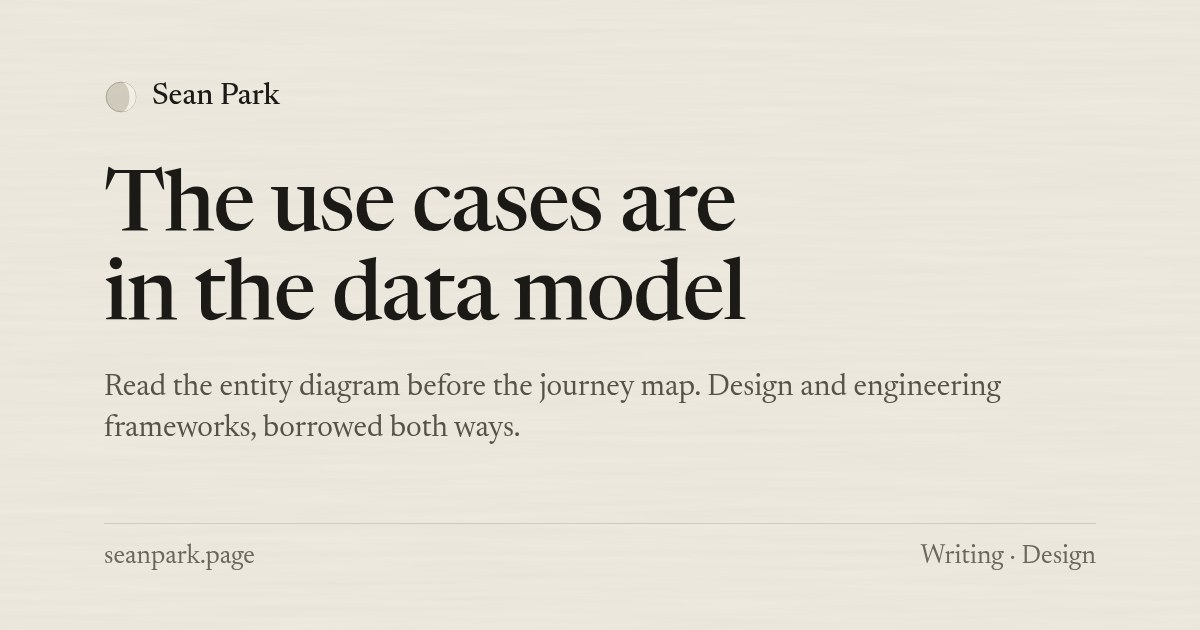
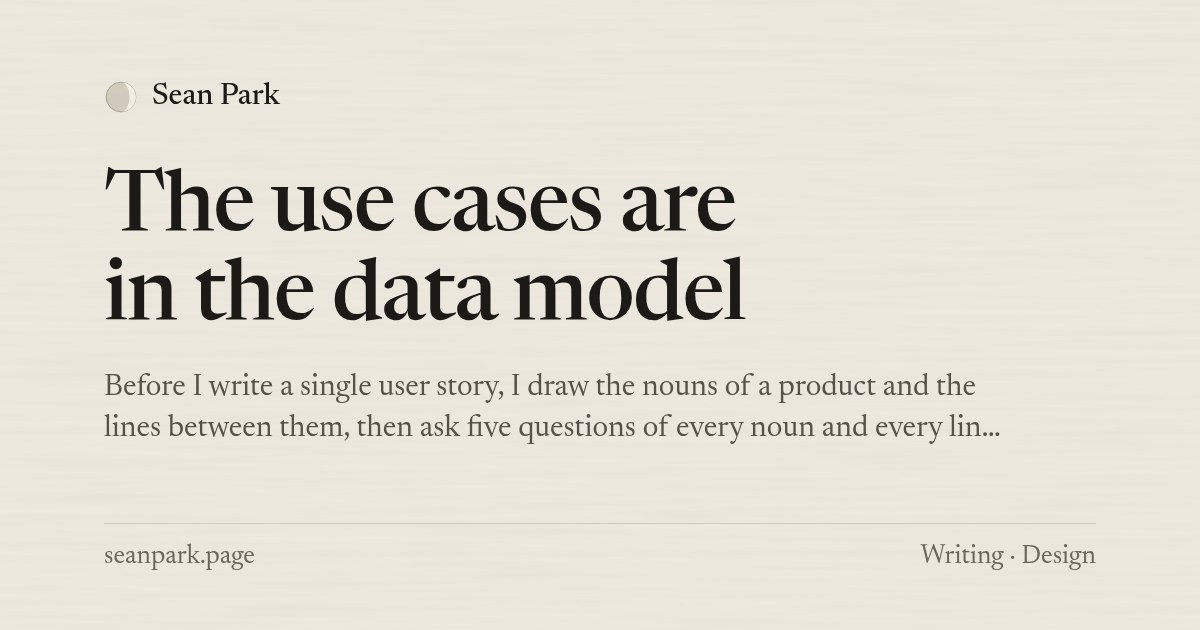
Writing: data-model, EN + KO (Spotify modelled through CRRUD, the app-builder wait, OOUX and the CRUD matrix as neighbours); share cards

Changed region(s): [[0.0925, 0.6635, 0.8325, 0.6937], [0.0925, 0.6032, 0.8325, 0.6333], [0.4625, 0.4524, 0.4933, 0.4825]]

diff --git a/src/styles/global.css b/src/styles/global.css
@@ -355,6 +355,14 @@ main{margin-left:calc(var(--gut) + var(--rail));padding-right:48px;max-width:100
 .prose .sws{display:flex;flex-wrap:wrap;gap:10px 22px;font-size:15px;color:var(--soft);font-variant-numeric:tabular-nums lining-nums}
 .prose .sw{display:inline-flex;align-items:center;gap:8px}
 .prose .sw::before{content:"";width:20px;height:20px;border-radius:3px;background:var(--c);box-shadow:inset 0 0 0 1px var(--rule)}
+/* data-model: the CRRUD grid; row heads are entities and relationships, a dot is an empty cell, .gap is the one to build */
+.prose figure.crrud{width:100%;overflow-x:auto}
+.prose .crrud table{font-size:15px;min-width:640px}
+.prose .crrud tbody th{text-align:left;font-weight:400;color:var(--fg);padding:9px 16px 9px 0;border-bottom:1px solid var(--rule);white-space:nowrap}
+.prose .crrud tr.grp th{color:var(--faint);font-size:13px;letter-spacing:.04em;padding-top:18px}
+.prose .crrud td{color:var(--soft)}
+.prose .crrud td b{font-weight:400;color:var(--fg)}
+.prose .crrud td.gap{color:var(--fg);outline:1px dashed var(--fg);outline-offset:-4px;text-align:center}
 /* redesign-skill: a 900px-tall screen drawn at 1:5, the header band to scale, the rest is the page's main module */
 .prose figure.pxs{width:100%}
 .prose .pxrow{display:flex;gap:28px;flex-wrap:wrap}

diff --git a/src/content/writing-ko/data-model.md b/src/content/writing-ko/data-model.md
@@ -1,18 +1,119 @@
 ---
 title: 유스케이스는 데이터 모델 안에 있다
-dek: 저니맵보다 엔티티 다이어그램을 먼저 읽는다. 디자인과 엔지니어링이 서로의 프레임워크를 빌려 쓰는 법.
+dek: 사용자 스토리를 쓰기 전에 제품의 명사와 그 사이의 선부터 그린다. 그리고 명사 하나, 선 하나마다 다섯 가지를 묻는다. 사람들이 아끼는 기능은 대개 선 위에서 나온다.
 lens: 디자인
-keywords: ["엔지니어링 사고로 디자인하기", "ERD에서 유스케이스 찾기", "데이터 모델에서 시작하는 프로덕트 디자인"]
+keywords: ["엔지니어링 사고로 디자인하기", "ERD에서 유스케이스 찾기", "데이터 모델에서 시작하는 프로덕트 디자인", "프로덕트 디자인을 위한 CRUD", "객체 지향 UX"]
+tldr: "제품의 엔티티와 그 사이의 관계를 그리고, 하나하나에 생성·목록 조회·상세 조회·수정·삭제를 물어본다. 모든 기능이 어느 칸엔가 들어간다. 사랑받는 기능은 대부분 관계 쪽에 있고, 다음 기능은 빈칸에 있다."
 ---
 
-## 계기
+12월 초가 되면 수백만 명이 데이터베이스 쿼리 결과를 캡처해서 올린다. 스포티파이 랩드(Wrapped)는 1년 치 재생 기록을 곡과 아티스트별로 묶어 횟수순으로 정렬한 것이다. 엔티티 하나를 한 번 조회한 결과인데, 스포티파이가 1년 중 하는 마케팅 가운데 가장 잘 먹힌다.
 
-작성 예정: 이걸 처음 알아챈 순간.
+내 유스케이스도 대부분 이렇게 나온다. 사용자 스토리를 쓰거나 저니맵을 그리기 전에 제품의 명사들과 그 사이를 잇는 선부터 그린다. 그다음 상자 하나, 선 하나씩 짚어 가며 이걸로 사람이 뭘 할 수 있는지 묻는다.
 
-## 주장
+## 테이블이 아니라 엔티티
 
-작성 예정: 하고 싶은 말과 그 근거.
+이 그림은 DB 다이어그램이 아니다. 컬럼도 타입도 외래 키도 없다. 엔티티는 제품이 다루는 것이고 이름은 사람들이 부르는 말 그대로 쓴다. 곡, 플레이리스트, 사람. 관계는 두 엔티티 사이의 선이고 선 위에는 그게 무슨 관계인지 적는다. 좋아한다, 팔로한다, 편집한다.
 
-## 다시 한다면
+엔지니어 눈에는 엔지니어링을 덜어 낸 ER 다이어그램으로 보일 거다. 일부러 뺐다. 컬럼과 키가 붙는 순간 그림은 저장 방식을 설명하게 되는데, 나는 제품을 설명하는 그림이 필요하다.
 
-작성 예정: 지금 다시 한다면 바꿀 것.
+## 다섯 가지 질문
+
+엔티티와 관계마다 CRRUD를 묻는다.
+
+- 생성(Create): 하나를 만들 수 있나?
+- 목록 조회(Read list): 여러 개를 볼 수 있나?
+- 상세 조회(Read details): 하나를 자세히 볼 수 있나?
+- 수정(Update): 바꿀 수 있나?
+- 삭제(Delete): 없앨 수 있나?
+
+CRRUD는 CRUD에서 조회를 둘로 쪼갠 것이다. 이렇게 나눈 건 내 생각인데, 화면에서는 이 둘이 전혀 다른 물건이라서다. (비슷한 걸 CRUDL이라고 부르는 사람도 있다.) 목록은 「어떤 것들이 있지?」에 답하고 상세 페이지는 「이건 어떤 거지?」에 답한다. 화면이 다르고 기능도 다른 경우가 많다. 엔지니어들은 이미 이렇게 나눠 쓴다. Rails 라우트로 치면 `index`와 `show`다. 디자인 쪽에서는 이걸 잘 나누지 않는다.
+
+이 표의 칸 하나하나가 유스케이스 후보다. 대부분은 시시하거나 말이 안 되고, 몇 개는 이미 있다. 그리고 몇 개는 아직 아무도 만들지 않은 것이다.
+
+## 스포티파이를 모델링해 보면
+
+다들 아는 앱으로 해 보자. 스포티파이의 실제 스키마는 공개돼 있지 않으니, 이건 내가 그린 제품 모델이지 그쪽 데이터베이스가 아니다.
+
+렌즈 두 개로 시작한다. 비즈니스 렌즈는 무엇이 돈이 되는지 본다. 프리미엄 요금제(개인, 듀오, 패밀리, 학생), 무료 요금제의 광고, 그리고 시장 반대편의 아티스트와 레이블. 사용자 렌즈는 사람들이 뭘 하러 오는지 본다. 듣고, 새 음악을 찾고, 남과 나눈다.
+
+다음은 명사다. 사용자, 아티스트, 앨범, 곡, 플레이리스트, 기기, 요금제. 그리고 놓치기 쉬운 하나가 더 있다. **재생(Play)**이다. 재생은 한 사람과 한 곡, 그리고 한 순간이다. 누가 재생 버튼을 누를 때마다 생기고, 결국 이 모델에서 가장 값진 엔티티가 된다.
+
+다음은 선이다. 사용자가 곡을 *좋아한다*. 사용자가 아티스트를, 다른 사용자를 *팔로한다*. 남의 플레이리스트를 *같이 편집한다*. 기기가 곡을 *내려받아 두고 있다*. 사용자가 같이 듣기 세션에 *들어가 있다*. 요금제 하나가 여러 사용자를 *묶는다*.
+
+그리고 표를 채운다.
+
+<figure class="crrud">
+<table>
+<thead><tr><th></th><th>생성</th><th>목록 조회</th><th>상세 조회</th><th>수정</th><th>삭제</th></tr></thead>
+<tbody>
+<tr class="grp"><th colspan="6">엔티티</th></tr>
+<tr><th>플레이리스트</th><td>새 플레이리스트</td><td>내 라이브러리</td><td>플레이리스트 페이지</td><td>이름 변경, 순서 변경</td><td>삭제</td></tr>
+<tr><th>곡</th><td>·</td><td>검색, 앨범 페이지</td><td>가사, 크레딧</td><td>·</td><td>·</td></tr>
+<tr><th>재생</th><td>재생 버튼</td><td>최근 재생, daylist, <b>랩드</b></td><td>·</td><td>·</td><td>·</td></tr>
+<tr class="grp"><th colspan="6">관계</th></tr>
+<tr><th>사용자가 곡을 좋아함</th><td>하트</td><td>좋아요 표시한 곡</td><td class="gap">?</td><td>·</td><td>좋아요 취소</td></tr>
+<tr><th>사용자가 아티스트를 팔로</th><td>팔로</td><td>팔로 목록, 새 발매</td><td>·</td><td>·</td><td>언팔로</td></tr>
+<tr><th>사용자가 사용자를 팔로</th><td>팔로</td><td>친구 활동</td><td>·</td><td>·</td><td>언팔로</td></tr>
+<tr><th>사용자가 플레이리스트를 편집</th><td>초대</td><td>참여자</td><td>·</td><td>·</td><td>내보내기</td></tr>
+<tr><th>기기에 곡이 있음</th><td>다운로드</td><td>다운로드한 곡</td><td>·</td><td>·</td><td>삭제</td></tr>
+<tr><th>사용자가 세션에 있음</th><td>Jam 시작</td><td>참여 중인 사람</td><td>·</td><td>·</td><td>나가기</td></tr>
+<tr><th>요금제가 사용자를 묶음</th><td>멤버 추가</td><td>멤버, Family Mix</td><td>·</td><td>·</td><td>내보내기</td></tr>
+<tr><th>사용자 + 사용자, 재생으로</th><td>Blend 만들기</td><td>Blend 플레이리스트</td><td>·</td><td>·</td><td>나가기</td></tr>
+</tbody>
+</table>
+<figcaption>내가 그린 스포티파이 모델에 CRRUD를 돌린 결과. 점은 비어 있는 칸이고, 물음표는 내가 다음으로 만들 칸이다.</figcaption>
+</figure>
+
+눈에 띄는 게 세 가지 있다.
+
+첫째, 이름을 댈 수 있는 기능은 거의 다 어느 칸엔가 들어간다. 검색은 곡의 목록 조회다. 가사는 상세 조회다. 다운로드는 기기와 곡 사이의 관계이고, Jam은 사람과 세션 사이의 관계다. 랩드는 재생 기록을 연도로 자른 목록이다. daylist는 같은 기록을 하루 중 시간대로 자르고 비슷한 곡을 채워 넣는다. Blend는 몇 사람의 취향을 섞어 플레이리스트 하나를 만든다.
+
+둘째, 사람들이 입에 올리는 기능이 어디 있는지 보자. 좋아요 표시한 곡, 친구 활동, 공동 플레이리스트, Jam, Blend, Family Mix. 전부 관계 줄에 있다. 랩드와 daylist는 재생 줄에 있지만 재생도 결국 관계다. 한 사람과 한 곡이 어느 순간에 만난 기록이니까. 엔티티 줄에 있는 건 대개 기본기다. 플레이리스트를 만들고, 열고, 지운다.
+
+**사람들이 아끼는 기능은 관계에 붙은 동사다.**
+
+내가 상자만 그리지 않고 선을 긋는 가장 큰 이유가 이거다. 객체 목록에서는 화면이 나온다. 선에서는 그 화면을 열 이유가 나온다.
+
+셋째, 관계 줄에서는 수정 칸이 거의 비어 있다. 관계는 생기고 끝나지만 좀처럼 바뀌지 않는다. 곡을 좋아하거나, 안 좋아하거나 둘 중 하나다. 관계 줄에 수정 칸이 차 있으면 대개 그 선이 처음부터 자기 페이지를 가진 엔티티였어야 했다는 신호다.
+
+## 빈칸
+
+이 표가 제일 쓸모 있는 곳은 비어 있는 데다. 점 하나하나가 질문이다. 말이 안 돼서 빈 걸까, 아무도 안 만들어서 빈 걸까?
+
+*사용자가 곡을 좋아함*의 상세 조회를 보자. 스포티파이는 내가 이 곡을 처음 들은 날, 지금까지 몇 번 들었는지, 어느 해에 제일 많이 들었는지 다 안다. 랩드와 주간 청취 통계가 보여 주는 건 순위뿐이다. 올해나 이번 주에 많이 들은 곡들. 아무 곡이나 아무 날에 그걸 보여 주는 화면은 아직 못 찾았다. 이 곡이 언제 내 삶에 들어왔고 그때 무슨 일을 하고 있었는지. 이거면 기능 하나다. 이 기능은 누구를 인터뷰해서가 아니라 선 위의 빈 상자 하나를 보다가 나왔다.
+
+인터뷰는 그다음이다. 표는 후보를 내놓고, 무엇을 만들 가치가 있는지는 사용자 렌즈가 정한다. 그게 이 방법의 나머지 절반이다.
+
+## 양쪽으로
+
+데이터 모델로 유스케이스를 찾는 건 엔지니어링 습관을 디자인에 가져온 것이다. 그런데 이 방법은 반대 방향으로도 돌 때 더 잘 먹힌다. 사용자의 진짜 문제가 데이터를 바꾸는 방향이다.
+
+지금 만들고 있는 기능에서 예를 하나 들겠다. AI 앱 빌더다. 아직 나오지 않은 기능이라 세부는 바꿨다.
+
+만들고 싶은 앱을 설명하면 에이전트가 코드를 쓴다. 미리보기가 뜨기까지 1~2분을 기다려야 한다. 첫 버전은 그 시간을 스피너와 흘러가는 로그로 채웠다. `write_file`, `install`, `run`, `write_file`. 정확하긴 했지만 코드를 안 쓰는 사람에게는 아무 의미가 없었다. 사람들은 답답해했고, 몇몇은 새로 고침을 눌렀다가 작업을 통째로 날렸다.
+
+그래서 데이터에서 출발했다. 엔지니어링에서 디자인으로 가는 방향이다. 실제 실행 기록에서 툴 호출을 뽑아 엔티티로 나눴다. 페이지, 파일, 패키지, 명령, 오류, 그리고 미리보기 자체. 다음엔 관계를 그렸다. 페이지는 파일로 이뤄진다. 파일은 패키지가 필요하다. 명령이 파일을 빌드하고, 오류는 어떤 파일에 속한다. 여기에 CRRUD를 대 보니 로그가 눈으로 따라갈 수 있는 화면이 됐다. 페이지가 하나씩 나타나고 그 아래로 파일이 채워진다. 오류는 흘러가는 빨간 줄이 아니라 그 오류가 깨뜨린 페이지 위에 뜬다.
+
+기다리는 동안 무슨 일이 일어나는지는 읽히게 됐다. 하지만 기다림이 짧아지거나 덜 답답해지지는 않았다. 그래서 반대로 갔다. 디자인에서 데이터로. 사람들이 그 1분 동안 실제로 기다리는 게 뭔지 물었다. 파일이 아니었다. 「내가 말한 걸 만들고 있나?」와 「거의 다 됐나?」였다. 툴 호출로는 둘 다 답할 수 없었다. 그런 정보를 아예 담고 있지 않았으니까. 그래서 정보를 더했다. 이제 툴 호출마다 그게 요청의 어느 부분을 위한 건지(「가입 페이지」, 「예약 폼」) 적혀 있고, 에이전트는 시작할 때 계획부터 보낸다.
+
+이제 대기 화면에는 사용자가 한 요청이 체크리스트로 뜨고, 그 사람이 쓴 말 그대로 하나씩 체크된다. 궁금한 사람은 그 아래에서 파일까지 볼 수 있다.
+
+## 비슷하게 생각한 사람들
+
+이 글을 쓰다가 [객체 지향 UX(OOUX)](https://alistapart.com/article/ooux-a-foundation-for-interaction-design/)를 알게 됐다. 소피아 프레이터(Sophia Prater)가 2015년에 내놓은 방법이고, ORCA라는 순서를 따른다. 객체(Objects), 관계(Relationships), 행동 유도(Calls-to-action), 속성(Attributes). 내 방법과 아주 가깝고, 더 일찍 알았으면 좋았겠다 싶다. 다른 점도 있다. OOUX는 행동을 객체에 붙이고, 관계는 주로 무엇이 무엇 안에 보일지 정하는 데 쓴다. 나는 동사를 관계 자체에 붙인다. 위의 표에서 흥미로운 기능이 나온 곳이 거기였으니까. 또 OOUX는 리서치로 찾은 사용자 머릿속의 명사에서 출발한다. 나는 시스템이 기록하는 것에서 출발한다. 툴 호출 로그처럼 아무도 들여다보지 않는 데이터까지 포함해서. 사용자와 맞춰 보는 건 그다음이다.
+
+더 오래된 것으로는 정보 공학(information engineering)의 [CRUD 매트릭스](https://condor.depaul.edu/jbernste/is315_CRUDmatrix.htm)가 있다. 엔티티와 업무 프로세스를 가로세로로 놓은 표인데, 모든 엔티티가 어딘가에서 생성·조회·수정·삭제되는지 확인하는 점검표로 쓴다. 나는 같은 표를 일부러 빈틈을 찾는 데 쓴다.
+
+## 안 통하는 데
+
+품질은 못 다룬다. 속도, 음질, 화면을 만질 때의 느낌, 지하철 안에서도 잘 되는지 같은 건 어느 칸에도 없다. 그런 건 다른 도구가 필요하다.
+
+어디에도 저장되지 않는 관계도 있다. 디스커버 위클리, 라디오, DJ는 「이 곡은 저 곡과 비슷하다」는 관계로 돌아가는데, 이 선은 스포티파이가 수많은 재생 기록과 플레이리스트에서 추론한 것이다. 저장된 것만 그렸다면 스포티파이가 제일 잘한다는 추천을 놓쳤을 거다. 그래서 추론한 선도 점선으로 그린다.
+
+그리고 표에는 안목이 없다. 후보는 쉰 개를 내놓지만 그중 중요한 세 개가 뭔지는 말해 주지 않는다. 한 번 보자마자 누군가 갖고 싶어 하는 칸이어야 만들 가치가 있다. 표가 하는 일은 모든 칸을 한 번씩은 보게 만드는 것까지다.
+
+남기고 싶은 규칙은 이거다. 누가 요청한 기능이 어느 칸에도 안 들어가면 억지로 끼워 넣지 말 것. 아직 안 그린 엔티티를 찾을 것. 요청의 각 부분도 우리가 그려 넣기 전까지는 그런 엔티티였다.
+
+지금 만드는 제품의 빈칸은 어디인가?
+
+*에이전트와 인터뷰하며 초안을 쓰고, 내가 고쳤다.*

diff --git a/src/content/writing/data-model.md b/src/content/writing/data-model.md
@@ -1,20 +1,122 @@
 ---
 title: The use cases are in the data model
-dek: Read the entity diagram before the journey map. Design and engineering frameworks, borrowed both ways.
+dek: Before I write a single user story, I draw the nouns of a product and the lines between them, then ask five questions of every noun and every line. Most of the features people love turn up on the lines.
 lens: Design
 order: 6
-keywords: ["designing with an engineering mindset", "use cases from an entity relationship diagram", "product design from the data model"]
+stage: essay
+updated: 2026-11-22
+keywords: ["designing with an engineering mindset", "use cases from an entity relationship diagram", "product design from the data model", "CRUD for product design", "object-oriented UX"]
+tldr: "Draw the product's entities and the relationships between them, then ask Create, Read list, Read details, Update and Delete of each one. Every feature lands in a cell. The loved ones are mostly on relationships, and the empty cells are where the next ones are."
 ---
 
-## The setup
+In early December, millions of people will post a screenshot of a database query. Spotify Wrapped is a year of your plays, grouped by song and artist and sorted by count. It's one read on one entity, and it's the best marketing Spotify does all year.
 
-Placeholder: the situation that made you notice this.
+I find most of my use cases that way. Before I write a user story or draw a journey map, I draw the product's nouns and the lines between them. Then I go through the drawing one box and one line at a time and ask what someone could do with it.
 
-## The argument
+## Entities, not tables
 
-Placeholder: the claim, and why it holds.
+The drawing isn't a database diagram. There are no columns, types or foreign keys. An entity is a thing the product is about, in the words people use for it: a song, a playlist, a person. A relationship is a line between two things, and I write on the line what it is: likes, follows, edits.
 
-## What I'd do differently
+Engineers will recognize an ER diagram with the engineering taken out. That's the point. Once it's columns and keys it describes storage, and I want it to describe the product.
 
-Placeholder: what you would change now.
+## Five questions
 
+For every entity and every relationship, I ask CRRUD:
+
+- Create: can someone make one?
+- Read list: can they see many of them?
+- Read details: can they look closely at one?
+- Update: can they change it?
+- Delete: can they get rid of it?
+
+CRRUD is CRUD with the read split in two. I came up with the split myself, because on screen those are two different things. (Some people call a version of it CRUDL.) A list answers "which ones?" and a detail page answers "tell me about this one." They're different screens, and they're often different features. Engineers already split it this way: in Rails routes it's `index` and `show`. The design side mostly doesn't.
+
+Every cell in that grid is a possible use case. Most will be boring or impossible, and some will already exist. A few will be things nobody has built.
+
+## Spotify, modelled
+
+Here's the method on an app everyone knows. Spotify's schema isn't public, so this is my model of the product, not their database.
+
+I start with two lenses. The business lens asks what pays. That's Premium plans (Individual, Duo, Family, Student), ads on the free tier, and artists and labels on the other side of the market. The user lens asks what people come to do: listen, find something new, share it.
+
+Then the nouns. User, Artist, Album, Track, Playlist, Device, Plan. And one that's easy to miss: the **Play**. A play is a user, a track and a moment. It's created every time someone presses play, and it ends up being the most valuable thing in the model.
+
+Then the lines. A user *likes* a track. A user *follows* an artist, and another user. A user *edits* a playlist they don't own. A device *has downloaded* a track. A user *is in* a listening session. A plan *covers* several users.
+
+Then the grid.
+
+<figure class="crrud">
+<table>
+<thead><tr><th></th><th>Create</th><th>Read list</th><th>Read details</th><th>Update</th><th>Delete</th></tr></thead>
+<tbody>
+<tr class="grp"><th colspan="6">Entities</th></tr>
+<tr><th>Playlist</th><td>New playlist</td><td>Your Library</td><td>Playlist page</td><td>Rename, reorder</td><td>Delete</td></tr>
+<tr><th>Track</th><td>·</td><td>Search, album page</td><td>Lyrics, credits</td><td>·</td><td>·</td></tr>
+<tr><th>Play</th><td>Press play</td><td>Recently played, daylist, <b>Wrapped</b></td><td>·</td><td>·</td><td>·</td></tr>
+<tr class="grp"><th colspan="6">Relationships</th></tr>
+<tr><th>User likes Track</th><td>The heart</td><td>Liked Songs</td><td class="gap">?</td><td>·</td><td>Unlike</td></tr>
+<tr><th>User follows Artist</th><td>Follow</td><td>Following, new releases</td><td>·</td><td>·</td><td>Unfollow</td></tr>
+<tr><th>User follows User</th><td>Follow</td><td>Friend Activity</td><td>·</td><td>·</td><td>Unfollow</td></tr>
+<tr><th>User edits Playlist</th><td>Invite</td><td>Collaborators</td><td>·</td><td>·</td><td>Remove</td></tr>
+<tr><th>Device has Track</th><td>Download</td><td>Downloaded</td><td>·</td><td>·</td><td>Remove</td></tr>
+<tr><th>User is in Session</th><td>Start a Jam</td><td>Who's in</td><td>·</td><td>·</td><td>Leave</td></tr>
+<tr><th>Plan covers User</th><td>Add member</td><td>Members, Family Mix</td><td>·</td><td>·</td><td>Remove</td></tr>
+<tr><th>User + User, via Plays</th><td>Make a Blend</td><td>The Blend</td><td>·</td><td>·</td><td>Leave</td></tr>
+</tbody>
+</table>
+<figcaption>My model of Spotify, run through CRRUD. A dot is a cell with nothing in it. The question mark is the one I'd build next.</figcaption>
+</figure>
+
+Three things jump out.
+
+First, almost every feature you can name is in a cell. Search is a read list on tracks. Lyrics is read details. Downloads are a relationship between a device and a track, and Jam is a relationship between a person and a session. Wrapped is a read list on plays, cut by year. daylist cuts the same plays by time of day and fills in with tracks like them. Blend mixes a few people's listening into one shared playlist.
+
+Second, look at where the features people talk about live. Liked Songs, Friend Activity, collaborative playlists, Jam, Blend, Family Mix: all on the relationship rows. Wrapped and daylist sit on plays, and a play is a relationship too, a person and a song at a moment in time. The entity rows are mostly the furniture: make a playlist, open a playlist, delete a playlist.
+
+**The features people love are verbs on a relationship.**
+
+That's the main reason I draw lines and not just boxes. A list of objects gives you the screens. The lines give you the reasons to open them.
+
+Third, the Update column is nearly empty on the relationship rows. Relationships are born and they end, but they rarely change. You like a song or you don't. When I see an Update cell filled on a relationship, it's usually a sign the line should have been an entity with its own page.
+
+## The empty cells
+
+The grid is most useful where it's blank. Every dot is a question: is this empty because it makes no sense, or because nobody's built it?
+
+Take *User likes Track*, Read details. Spotify knows when I first played a song, how many times I've played it, and which year it was my most-played. Wrapped and the weekly listening stats only show rankings: my top songs for the year or the week. I haven't found a screen that shows it for any one song, any day: when this song came into my life and what it was doing there. That's a feature, and it came from looking at an empty box on a line, not from interviewing anyone.
+
+Interviews come next. The grid hands you candidates, and the user lens decides which are worth building. That's the second half of the method.
+
+## Both ways
+
+Using the data model to find use cases is an engineering habit applied to design. It works better when it runs the other way too, with the user's real problem changing the data.
+
+Here's an example from a feature I'm working on: an AI app builder. I've changed the details, since it isn't out yet.
+
+You describe an app, and the agent writes it. Before you see a preview, there's a wait of a minute or two while it works. The first version filled that wait with a spinner and a scrolling log: `write_file`, `install`, `run`, `write_file`. It was accurate, and it meant nothing to anyone who doesn't write code. People got frustrated, and some of them refreshed and lost the run.
+
+So we started from the data, which is the engineering-to-design direction. We pulled the tool calls from a set of real runs and sorted them into entities: pages, files, packages, commands, errors, and the preview itself. Then we drew the relationships. A page is made of files. A file needs packages. A command builds files, and an error belongs to a file. With CRRUD on those, the log turned into something you could look at: pages appearing one by one with their files filling in under them, and an error shown on the page it broke, not as a red line in a stream.
+
+That made the wait legible, but it didn't make it shorter or calmer. So we went the other way, from design back to data. We asked what people are actually waiting for during that minute. It isn't files. It's "is it building what I asked for?" and "is it almost done?" The tool calls couldn't answer either question, because they didn't carry that information. So we added it. Each tool call now says which part of the person's request it serves ("the sign-up page," "the booking form"), and the agent sends its plan at the start.
+
+The wait screen now shows your own request as a checklist, ticking off in your words, with the files underneath for anyone who wants them.
+
+## Who else thinks this
+
+While I was writing this post I found [Object-Oriented UX](https://alistapart.com/article/ooux-a-foundation-for-interaction-design/), Sophia Prater's method from 2015. Its ORCA process goes objects, relationships, calls-to-action, attributes. It's very close, and I wish I'd known it sooner. Where I'd differ: OOUX hangs the actions on objects and uses relationships mostly to decide what appears inside what. I put the verbs on the relationships themselves, because that's where the grid above found the interesting features. OOUX also starts from the nouns in users' heads, found through research. I start from what the system records, including data nobody looks at, like the tool-call logs, and check it against users afterwards.
+
+Older still is the [CRUD matrix](https://condor.depaul.edu/jbernste/is315_CRUDmatrix.htm) from information engineering, which crosses entities with business processes. It's used as a completeness check: every entity should be created, read, updated and deleted somewhere. I use the same grid to find the gaps on purpose.
+
+## Where it breaks
+
+It doesn't cover qualities. Speed, sound quality, how a screen feels, and whether it works on a train don't live in any cell. You need other tools for those.
+
+Some relationships aren't stored anywhere. Discover Weekly, radio and DJ run on "this track is like that one," a line Spotify infers from millions of plays and playlists. If I only drew what's saved, I'd miss the recommendations Spotify is best known for. So I draw inferred lines too, dashed.
+
+And the grid doesn't have taste. It hands you fifty candidates and can't tell you which three matter. A cell earns a build when one look at it makes someone want it. The grid only makes sure you looked at all of them.
+
+The rule I'd keep: if a feature someone asks for won't fit in any cell, don't force it. Look for the entity you haven't drawn yet. That's what the parts of the request were, until we drew them.
+
+What's the empty cell in your product?
+
+*Drafted with my agent from an interview; edited by me.*
